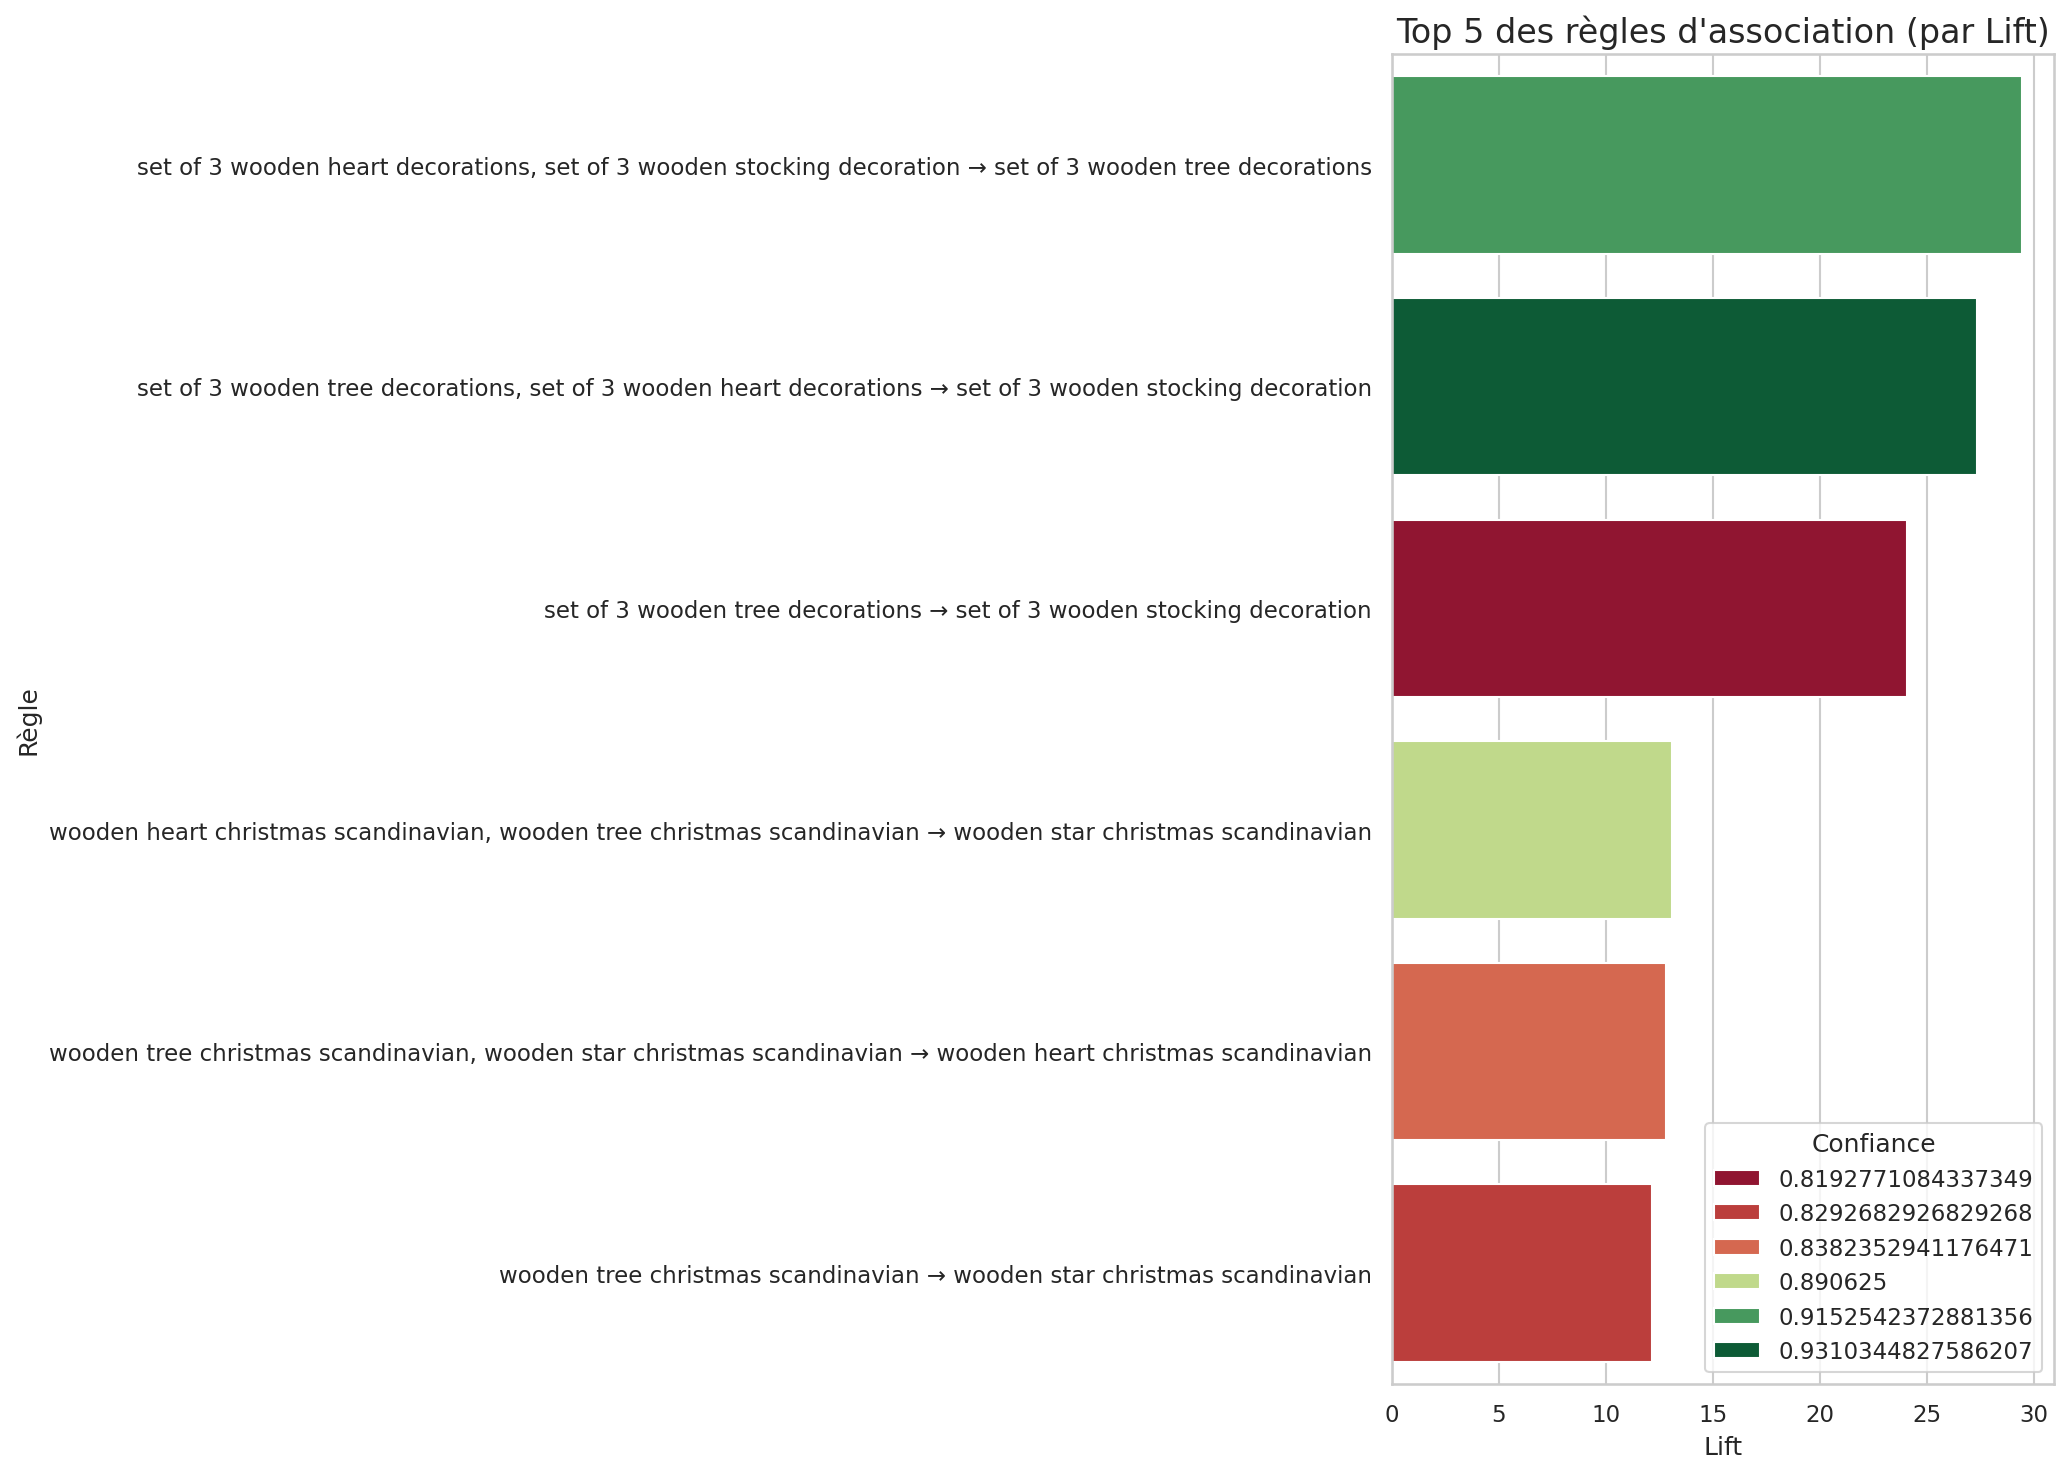
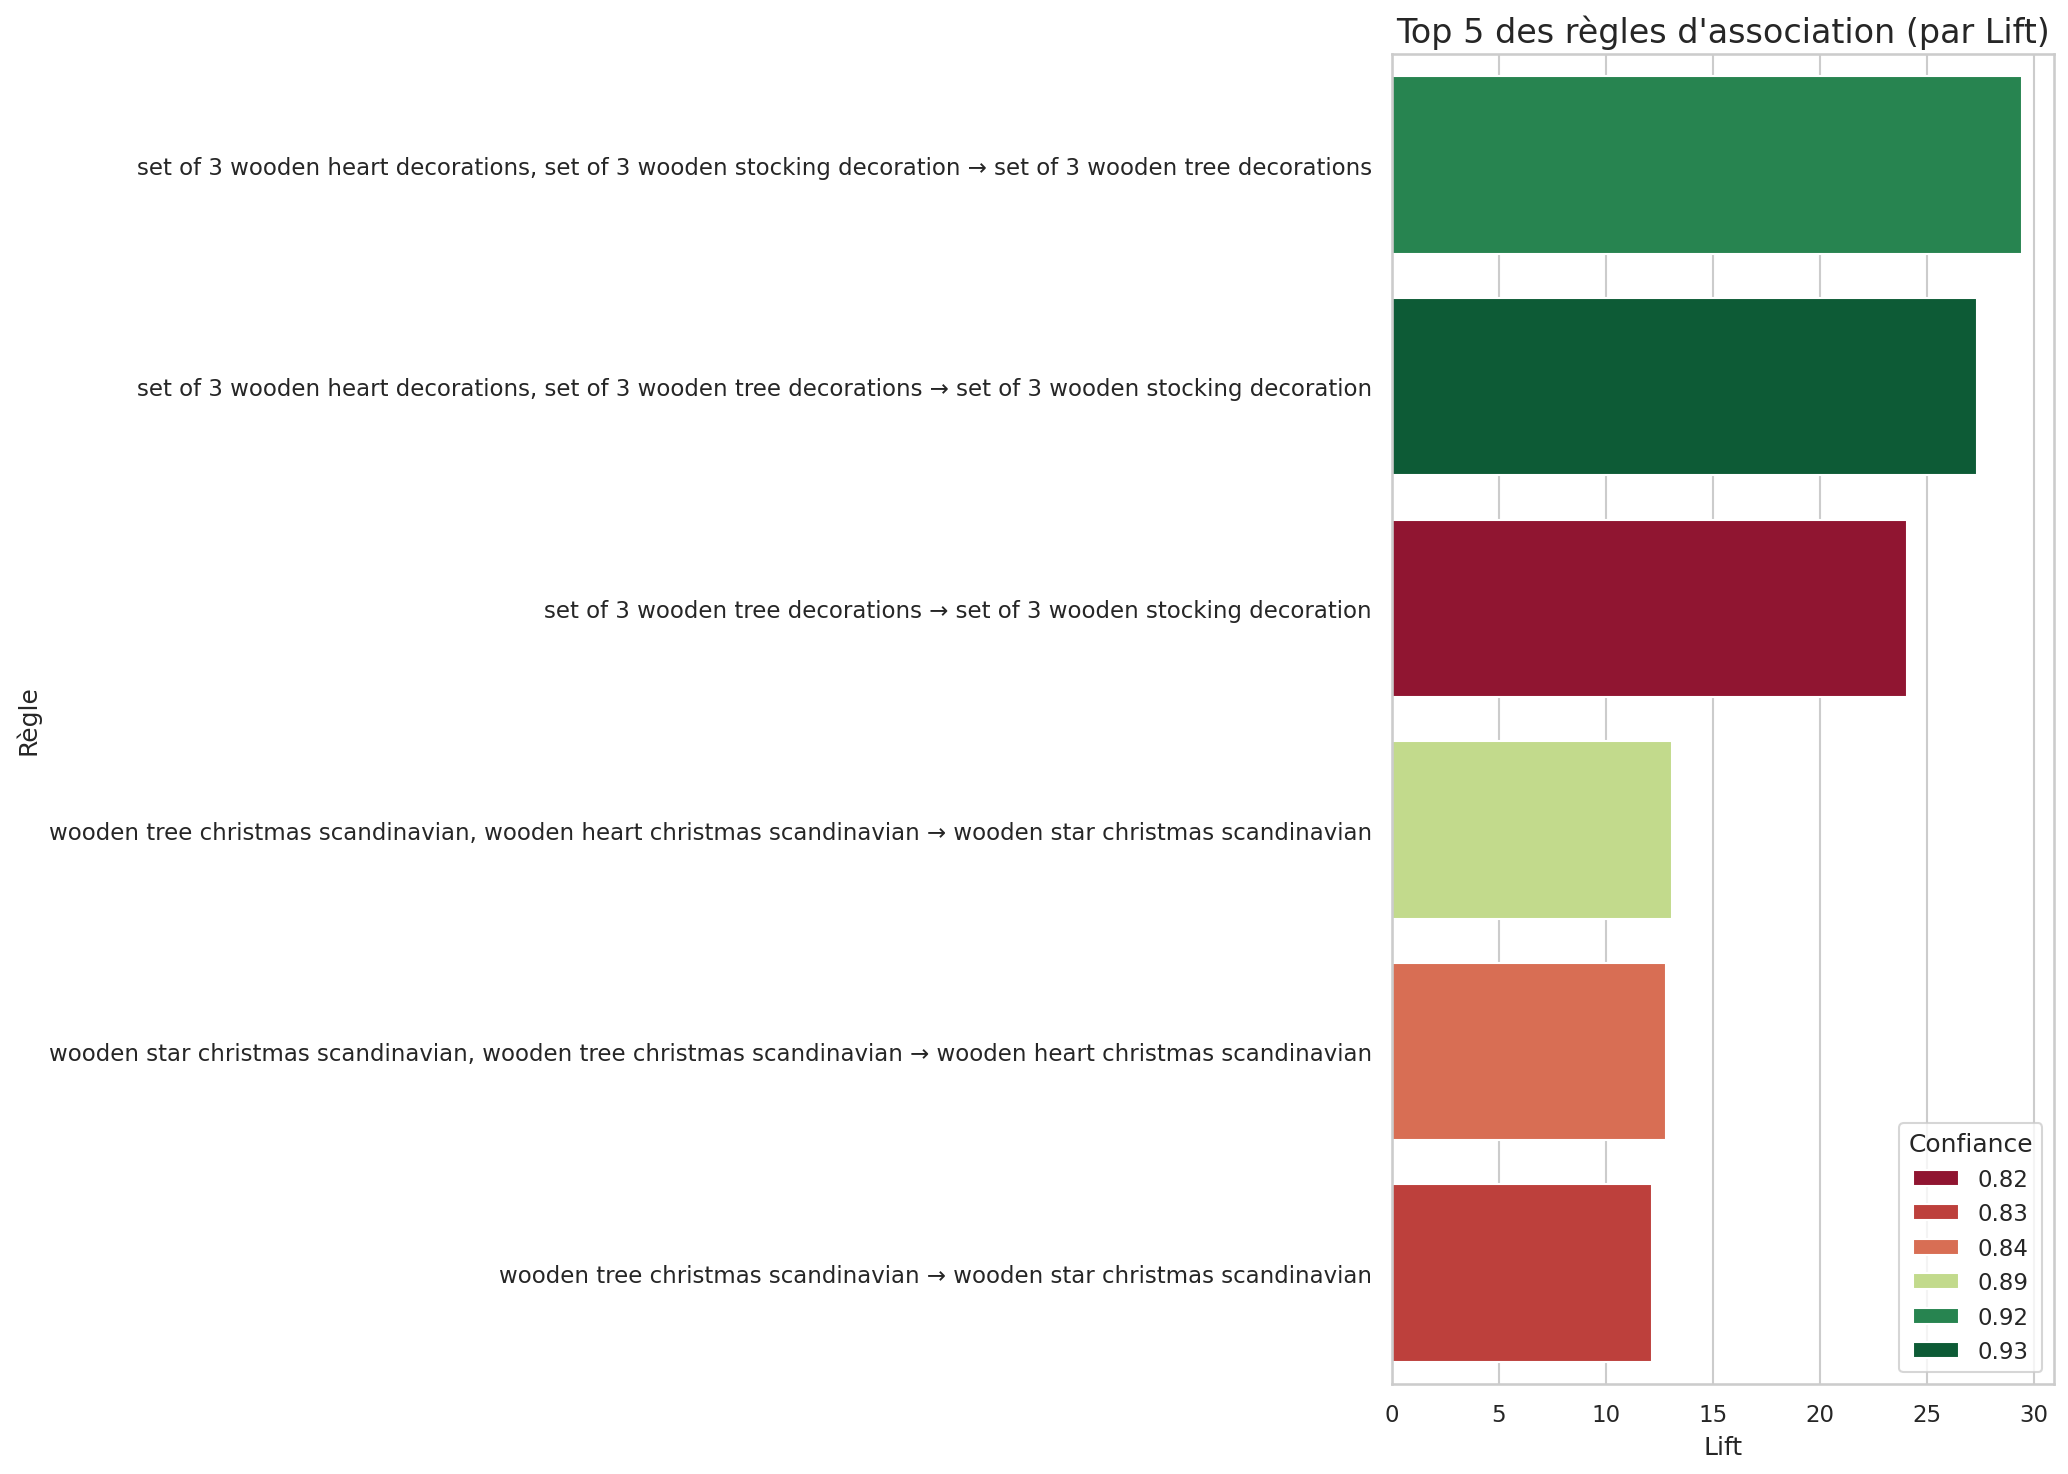
arrondir ocnfiance dans le graphique 5

diff --git a/analyser_paniers.py b/analyser_paniers.py
@@ -318,7 +318,8 @@ def analtyse_regles_association(df: pd.DataFrame, min_support=0.02, max_k=5, min
             lambda row: f"{', '.join(row['antecedents'])} → {', '.join(row['consequents'])}",
             axis=1
         )
-        
+        # arrondir la confiance pour la légende
+        top_regles["confidence"] = top_regles["confidence"].round(2)
         plt.figure(figsize=(14, 10))
         ax = sns.barplot(data=top_regles,  x="lift",  y="rule",  hue="confidence", palette="RdYlGn", orient="h", legend=True)
         ax.set_title("Top 5 des règles d'association (par Lift)", fontsize=16)
